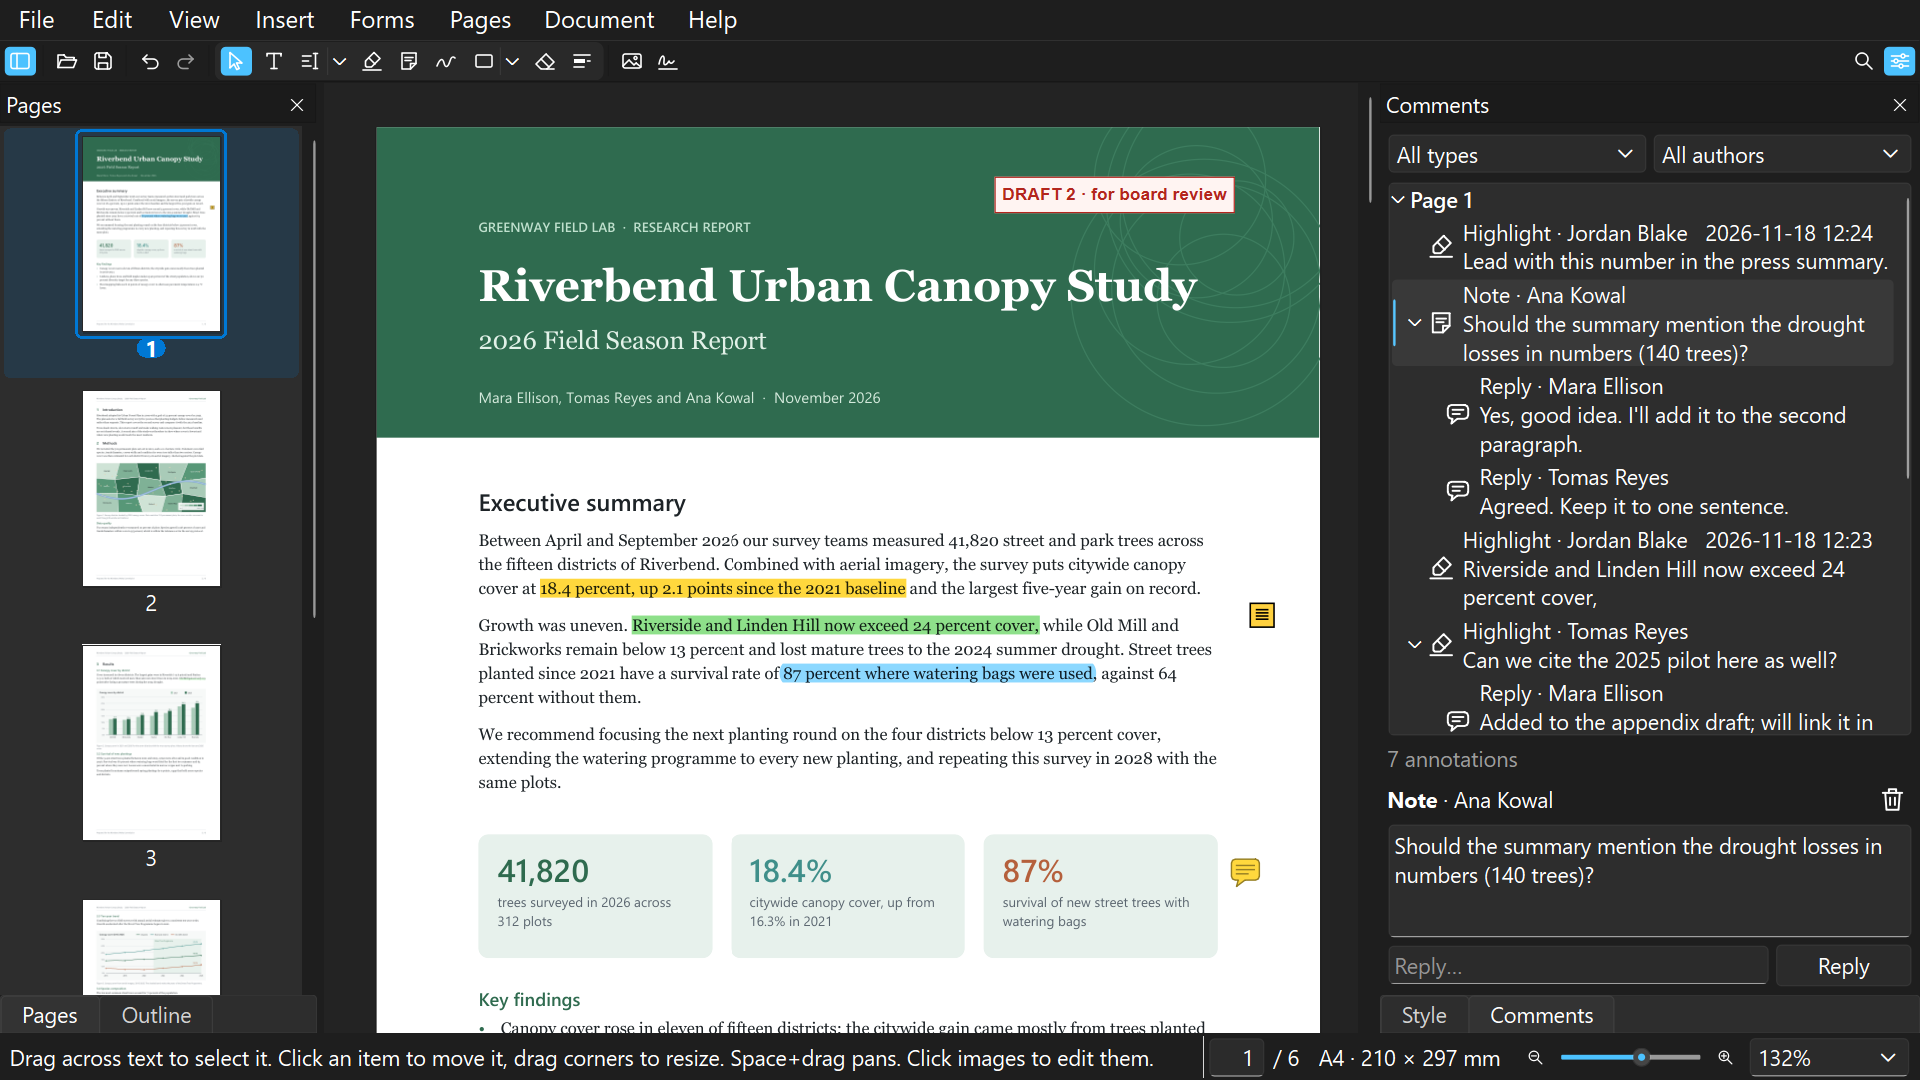
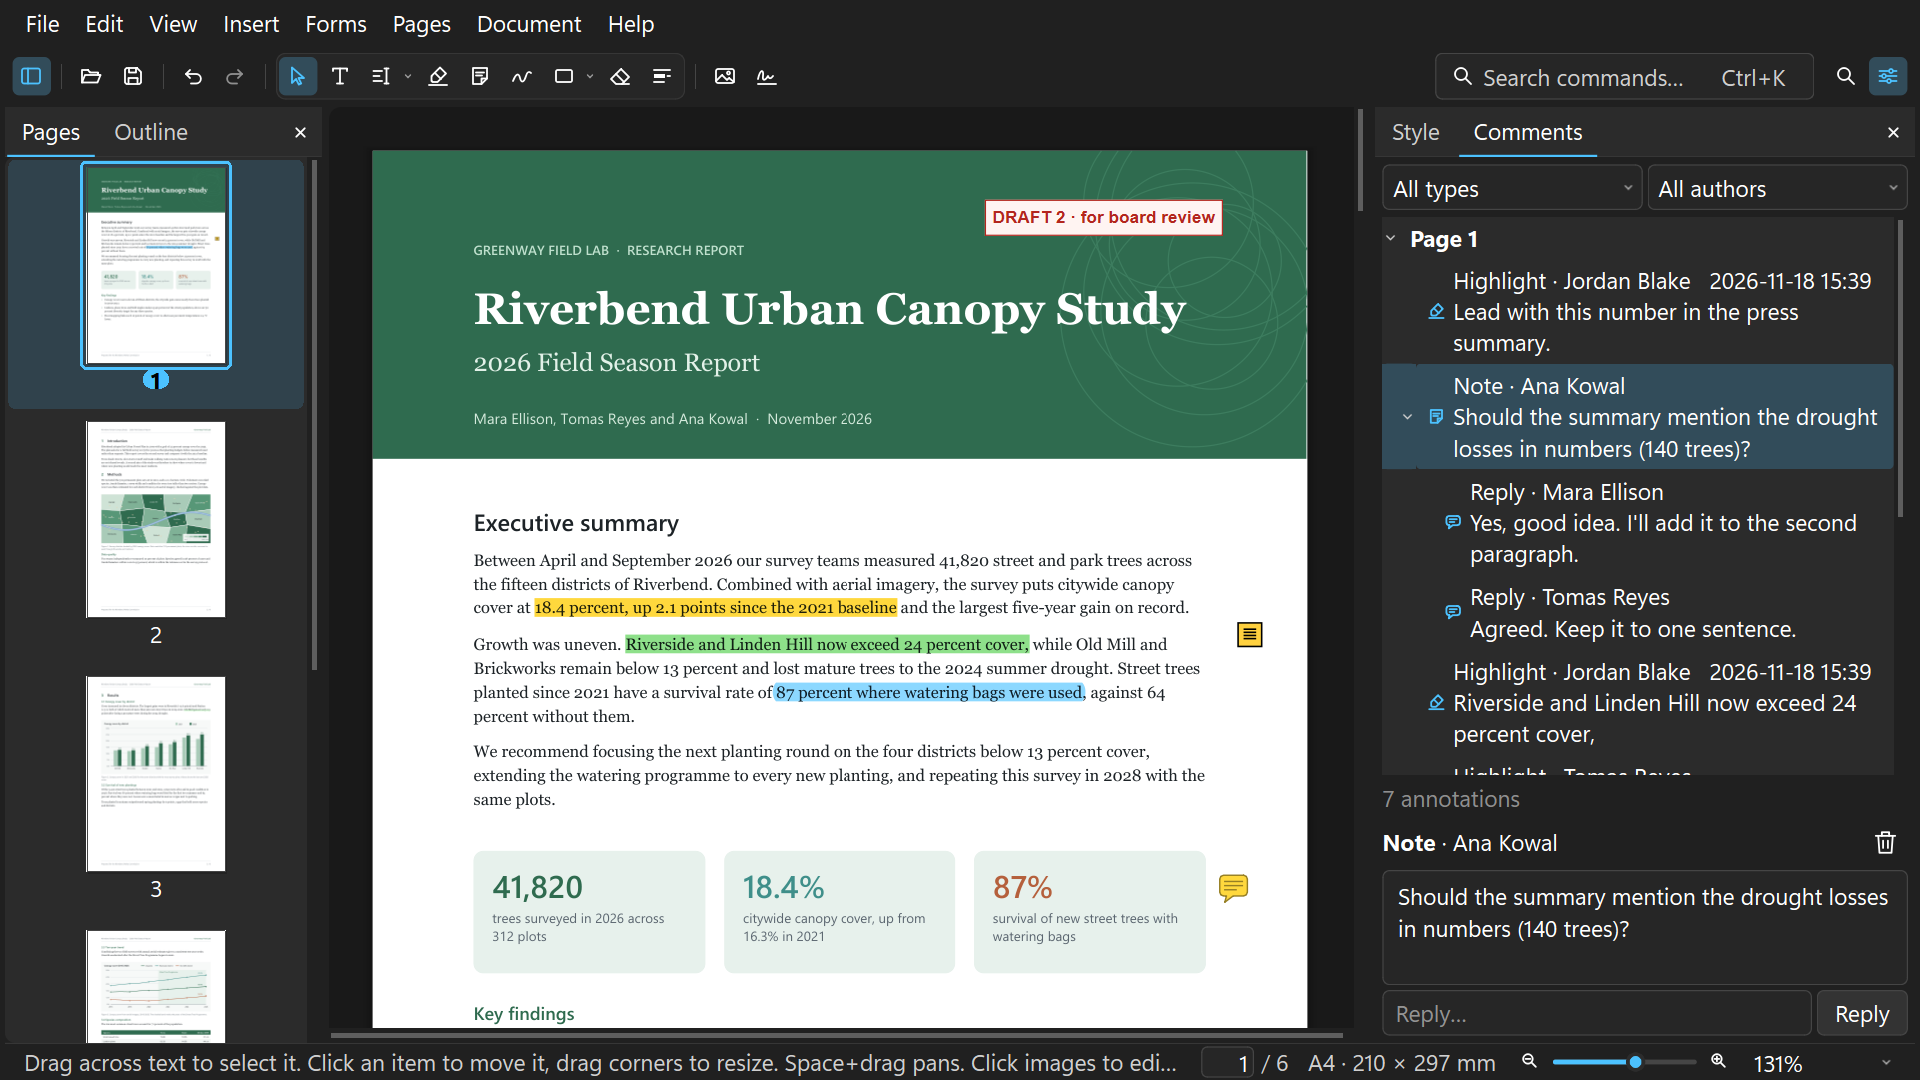
Version 0.2.0, privacy policy, and the Store's reserved name in the MSIX
- leaf.__version__ is the single source for the About box, the MCP server and the self-test log
- README screenshots show the new look
- PRIVACY.md for the Microsoft Store listing
- build_msix.ps1 -DisplayName sets the package name to the one reserved in Partner Center

diff --git a/leaf/window.py b/leaf/window.py
@@ -13,6 +13,7 @@ from PySide6.QtWidgets import (
     QVBoxLayout, QWidget,
 )
 
+from . import __version__
 from . import commands as C
 from . import pageops
 from .canvas import Canvas
@@ -432,7 +433,7 @@ class MainWindow(QMainWindow):
         # explicit names: the shortcut settings key must not change with the language (shortcuts.ensure_names)
         m.addAction(tr("&Keyboard shortcuts"), self.show_shortcuts).setObjectName("a_help_keyboard_shortcuts")
         m.addAction(tr("&About Leaf"), lambda: QMessageBox.about(
-            self, tr("About Leaf"), f"<b>Leaf</b> 0.1 - a fast, local PDF editor.<br>Engine: MuPDF {pymupdf.mupdf_version}<br>"
+            self, tr("About Leaf"), f"<b>Leaf</b> {__version__} - a fast, local PDF editor.<br>Engine: MuPDF {pymupdf.mupdf_version}<br>"
             "Nothing leaves your computer.")).setObjectName("a_help_about_leaf")
 
     def _build_toolbar(self) -> None:

diff --git a/tests/test_packaging.py b/tests/test_packaging.py
@@ -253,3 +253,16 @@ def test_set_app_id_dry_run(capsys):
     assert f"{APP_ID}.metainfo.xml" in out  # would be renamed
     assert _app_id() == APP_ID  # dry run changed nothing
 
+
+
+def test_version_is_consistent():
+    """One version everywhere: pyproject, leaf.__version__, the newest AppStream release, Inno Setup, AUR."""
+    import re
+
+    from leaf import __version__
+
+    assert re.search(r'^version = "([^"]+)"', _read("pyproject.toml"), re.M).group(1) == __version__
+    meta = ET.parse(os.path.join(LINUX, f"{APP_ID}.metainfo.xml")).getroot()
+    assert meta.find("releases/release").get("version") == __version__
+    assert f'#define Version "{__version__}"' in _read("packaging", "leaf.iss")
+    assert f"pkgver={__version__}\n" in _read("packaging", "aur", "PKGBUILD")

diff --git a/leaf/selftest.py b/leaf/selftest.py
@@ -51,7 +51,9 @@ def run() -> int:
         tmp = tempfile.mkdtemp(prefix="leaf-selftest-")
         src, out = os.path.join(tmp, "in.pdf"), os.path.join(tmp, "out.pdf")
         _make_pdf(src)
-        log.append(f"MuPDF {pymupdf.mupdf_version}, Qt platform {app.platformName()}")
+        from . import __version__
+
+        log.append(f"Leaf {__version__}, MuPDF {pymupdf.mupdf_version}, Qt platform {app.platformName()}")
 
         from .features import NAMES
 

diff --git a/leaf/mcp_server.py b/leaf/mcp_server.py
@@ -29,12 +29,9 @@ class ToolError(Exception):
 
 
 def _version() -> str:
-    try:
-        from importlib.metadata import version
+    from . import __version__  # (package metadata is not bundled in packaged builds)
 
-        return version("leaf")
-    except Exception:  # noqa: BLE001
-        return "0.1.0"
+    return __version__
 
 
 # ===================================================================== paths

diff --git a/leaf/__init__.py b/leaf/__init__.py
@@ -1,0 +1,3 @@
+"""Leaf: a fast, local PDF editor."""
+
+__version__ = "0.2.0"  # keep in sync with pyproject.toml (tests/test_packaging.py checks)

diff --git a/PRIVACY.md b/PRIVACY.md
@@ -1,0 +1,47 @@
+# Privacy policy
+
+*Last updated: 18 November 2026*
+
+Leaf is a PDF editor that works on your computer. This policy covers the Leaf desktop app, however it was installed
+(Microsoft Store, GitHub releases, Linux packages or from source).
+
+## What Leaf collects
+
+**Nothing.** Leaf has no accounts, analytics, telemetry, crash reporting or ads. Your documents are opened, edited
+and saved only on your computer, and are never uploaded anywhere.
+
+## What stays on your computer
+
+- Your settings and the list of recently opened files. Previews of those files are made while Leaf runs and are not
+  saved.
+- Recovery copies of unsaved work, so it can be restored after a crash. They are deleted when you save or close the
+  document.
+- If you turn on the agent link (off by default), a random access token in your user profile that only you can read.
+
+All of this is stored in your user profile. Uninstalling Leaf, or deleting its settings folder, removes it.
+
+## When Leaf uses the network
+
+Leaf connects to the internet only when you ask for something that needs it:
+
+- **Downloading OCR languages.** When you choose *Add languages…* in the OCR dialog, Leaf downloads the language files
+  you pick from the Tesseract project on GitHub (`github.com/tesseract-ocr/tessdata_fast`). GitHub sees a normal
+  download request (your IP address and the file name). No document content is sent.
+- **Timestamped signatures.** If you enter a timestamp server when signing, Leaf sends that server a hash of the
+  signature, as the PAdES standard requires. The server never sees the document itself.
+- **Links in documents.** Clicking a web link in a PDF opens it in your web browser.
+
+Leaf's single-instance handover and agent link use local connections inside your computer, not the network.
+
+## Children
+
+Leaf collects no personal information from anyone, including children.
+
+## Changes
+
+Changes to this policy are published in this file, in Leaf's public repository:
+<https://github.com/jagritvats/Leaf-PDF-Viewer/blob/main/PRIVACY.md>.
+
+## Contact
+
+Questions: open an issue at <https://github.com/jagritvats/Leaf-PDF-Viewer/issues>.

diff --git a/README.md b/README.md
@@ -4,7 +4,7 @@ A fast, local PDF editor. Qt 6 UI in a Windows 11 (Fluent) style, light and dark
 
 ![Leaf in dark mode: a report with highlights and a comment thread](docs/screenshots/annotate-dark.png)
 
-![Editing existing text in place, light mode](docs/screenshots/edit-text-light.png)
+![The start screen in light mode: recent files as page previews](docs/screenshots/start-screen-light.png)
 
 Downloads: [Releases](https://github.com/jagritvats/Leaf-PDF-Viewer/releases). Contributing: [CONTRIBUTING.md](CONTRIBUTING.md).
 
